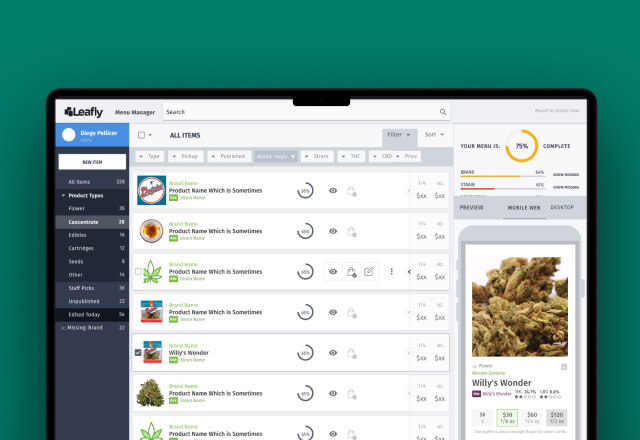
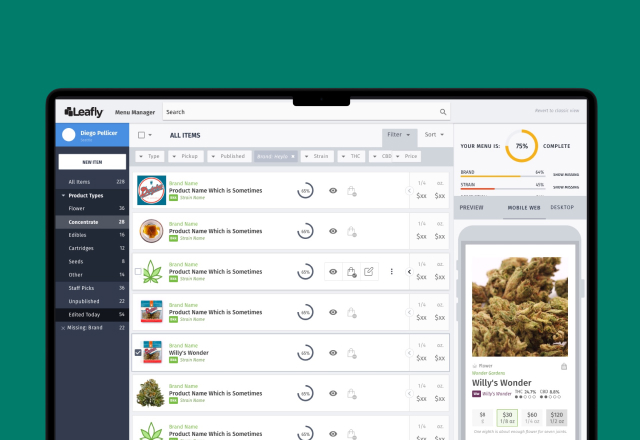
fixed shadows, updated titles

Changed region(s): [[0.0, 0.2955, 0.0938, 1.0], [0.9375, 0.2955, 1.0, 1.0]]

diff --git a/_site/index.html b/_site/index.html
@@ -344,7 +344,7 @@
             <div class="project-card" style="background:#539388">
 
                 <a class="project-meta" href="/work/visualui/">
-                    <h3 class="project-title">illustration & personal projects</h3>
+                    <h3 class="project-title">illustration & print design</h3>
                     
                 </a>
 
@@ -356,17 +356,15 @@
             <!-- /projectcard -->
 
               
-            <div class="project-card" style="background:#222222">
+            <div class="project-card" style="background:#517334">
 
-                <a class="project-meta" href="/work/visualui/">
-                    <h3 class="project-title">Rocketkar Studios</h3>
-                    
-                    <h4 class="project-type">photography</h4>
+                <a class="project-meta" href="/work/personal/">
+                    <h3 class="project-title">Personal Projects</h3>
                     
                 </a>
 
-                <a href="/work/visualui/" class="project-thumbnail">
-                    <img class="project-thumbnail-image" src="images/thumbs/visual@2x.jpg" />
+                <a href="/work/personal/" class="project-thumbnail">
+                    <img class="project-thumbnail-image" src="/images/thumbs/oldboy@2x.jpg" />
                 </a>
 
             </div>
